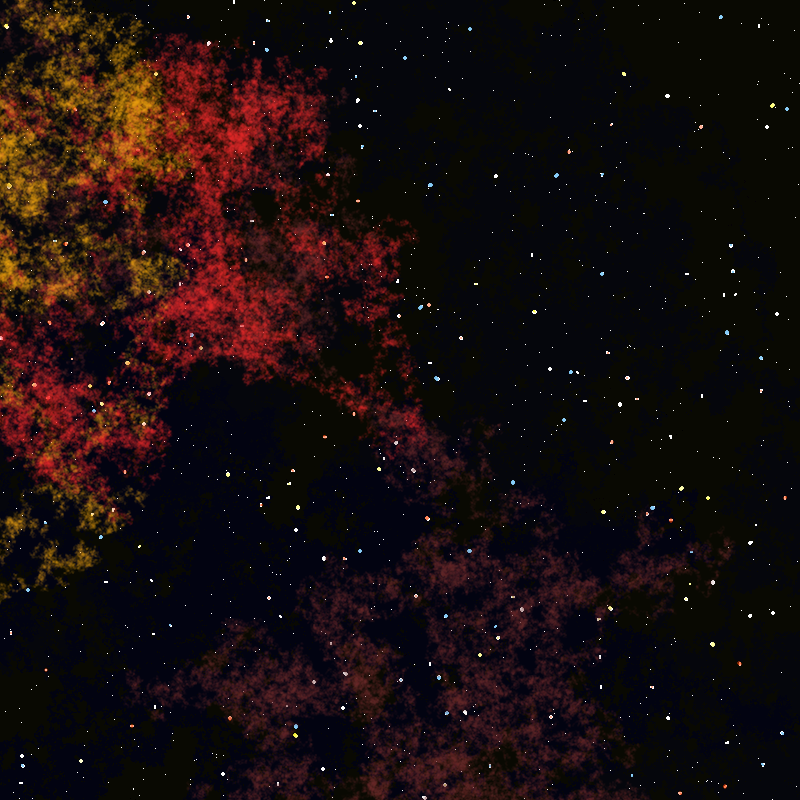
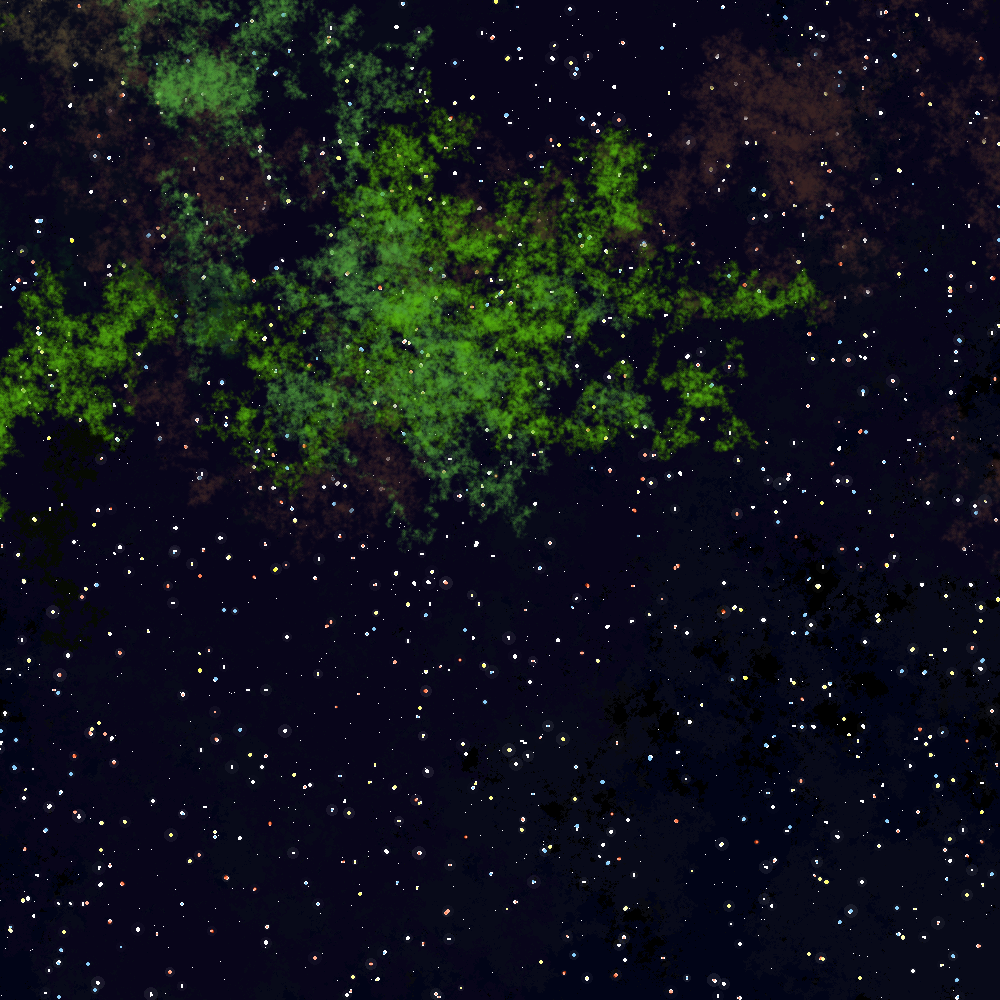
Speed improvement, small color changes

diff --git a/src/SpaceGenerator.cpp b/src/SpaceGenerator.cpp
@@ -33,6 +33,8 @@ void SpaceGenerator::someshit(int x, int y, long size_pixels, ALLEGRO_COLOR col)
             }
     }
 
+    //size_pixels = size_pixels/2;
+
     while(size_pixels > 0)
     {
         /*if(rand() % size_pixels == 0)
@@ -42,6 +44,8 @@ void SpaceGenerator::someshit(int x, int y, long size_pixels, ALLEGRO_COLOR col)
 
         x += -1 + rand() %3;
         y += -1 + rand() %3;
+        /*x += -2 + rand() %5;
+        y += -2 + rand() %5;*/
         if(x < 0)
         {
             x = 0;
@@ -62,8 +66,8 @@ void SpaceGenerator::someshit(int x, int y, long size_pixels, ALLEGRO_COLOR col)
 
         if(isfree[x][y] == true)
         {
-            //al_put_pixel(x, y, col);
-            al_draw_filled_circle(x,y,1, col);
+            al_put_pixel(x, y, col);
+            //al_draw_filled_circle(x,y,3, col);
             isfree[x][y] = false;
             size_pixels--;
         }
@@ -79,7 +83,7 @@ ALLEGRO_BITMAP* SpaceGenerator::Generate()
     al_clear_to_color(al_map_rgb(255,255,255));
     al_draw_filled_rectangle(0,0,w,h, al_map_rgb(0,0,0));
 
-    std::uniform_real_distribution<float> a_distribution(0, 0.05);
+    std::uniform_real_distribution<float> a_distribution(0, 0.05);//0, 0.05
     std::uniform_int_distribution<int> w_distribution(0, w);
     std::uniform_int_distribution<int> h_distribution(0, h);
 
@@ -94,7 +98,8 @@ ALLEGRO_BITMAP* SpaceGenerator::Generate()
         signed int x = w_distribution(rndgenerator), y = h_distribution(rndgenerator);
 
         //someshit(x, y, rand() % (w*h), al_map_rgb(rand()%10, rand()%10,1+rand()%20));
-        someshit(x, y, rand() % (w*h), al_map_rgb(rand()%15, rand()%15,1+rand()%30));
+        someshit(x, y, rand() % (w*h), al_map_rgb(rand()%12, rand()%12,1+rand()%26));
+        Progresscallback(c +1);
         //someshit(x, y, rand() % (w*h), al_premul_rgba(1+rand()%255, 1+rand()%255,1+rand()%255, 1+rand()%25));
     }
 
@@ -159,8 +164,13 @@ ALLEGRO_BITMAP* SpaceGenerator::Generate()
         {
             xx = -1 + rand()%3;
             yy = -1 + rand()%3;
-            al_draw_filled_circle(x, y, 1,al_premul_rgba_f(nebc[c].r, nebc[c].g, nebc[c].b, a_distribution(rndgenerator)));
-            //al_put_pixel(x, y, al_premul_rgba_f(nebc[c].r, nebc[c].g, nebc[c].b, a_distribution(rndgenerator)));
+            //al_draw_filled_circle(x, y, 1,al_premul_rgba_f(nebc[c].r, nebc[c].g, nebc[c].b, a_distribution(rndgenerator)));
+            al_put_blended_pixel(x, y, al_premul_rgba_f(nebc[c].r, nebc[c].g, nebc[c].b, a_distribution(rndgenerator)));
+
+            al_put_blended_pixel(x-1, y, al_premul_rgba_f(nebc[c].r, nebc[c].g, nebc[c].b, a_distribution(rndgenerator)));
+            al_put_blended_pixel(x+1, y, al_premul_rgba_f(nebc[c].r, nebc[c].g, nebc[c].b, a_distribution(rndgenerator)));
+            al_put_blended_pixel(x, y-1, al_premul_rgba_f(nebc[c].r, nebc[c].g, nebc[c].b, a_distribution(rndgenerator)));
+            al_put_blended_pixel(x, y+1, al_premul_rgba_f(nebc[c].r, nebc[c].g, nebc[c].b, a_distribution(rndgenerator)));
             x += xx;
             y += yy;
         }

diff --git a/main.cpp b/main.cpp
@@ -91,7 +91,7 @@ int main(int argc, char **argv)
         fprintf(stderr, "failed to create timer!\n");
         return -1;
     }
-    al_set_new_display_flags(ALLEGRO_OPENGL);
+    al_set_new_display_flags(ALLEGRO_OPENGL | ALLEGRO_PROGRAMMABLE_PIPELINE);
     display = al_create_display(SCREEN_W, SCREEN_H);
     al_set_new_display_option(ALLEGRO_RENDER_METHOD, 1, ALLEGRO_REQUIRE);
     if(!display)
